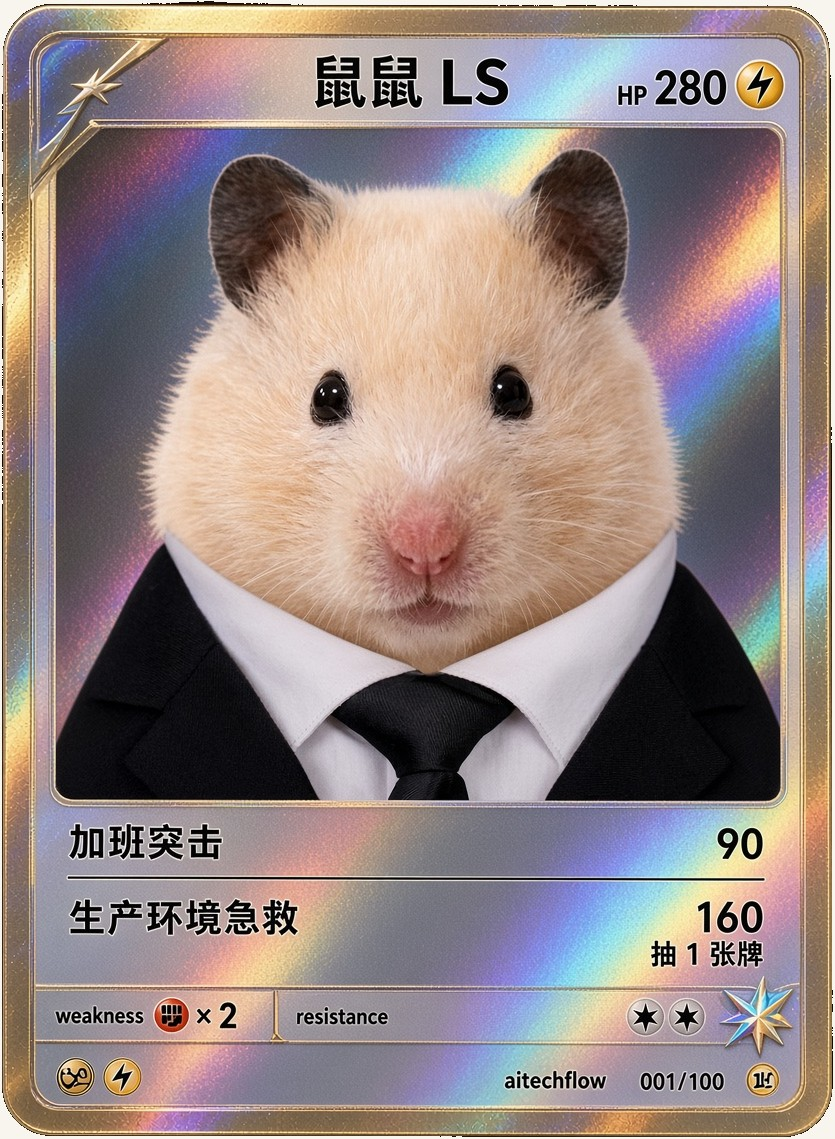
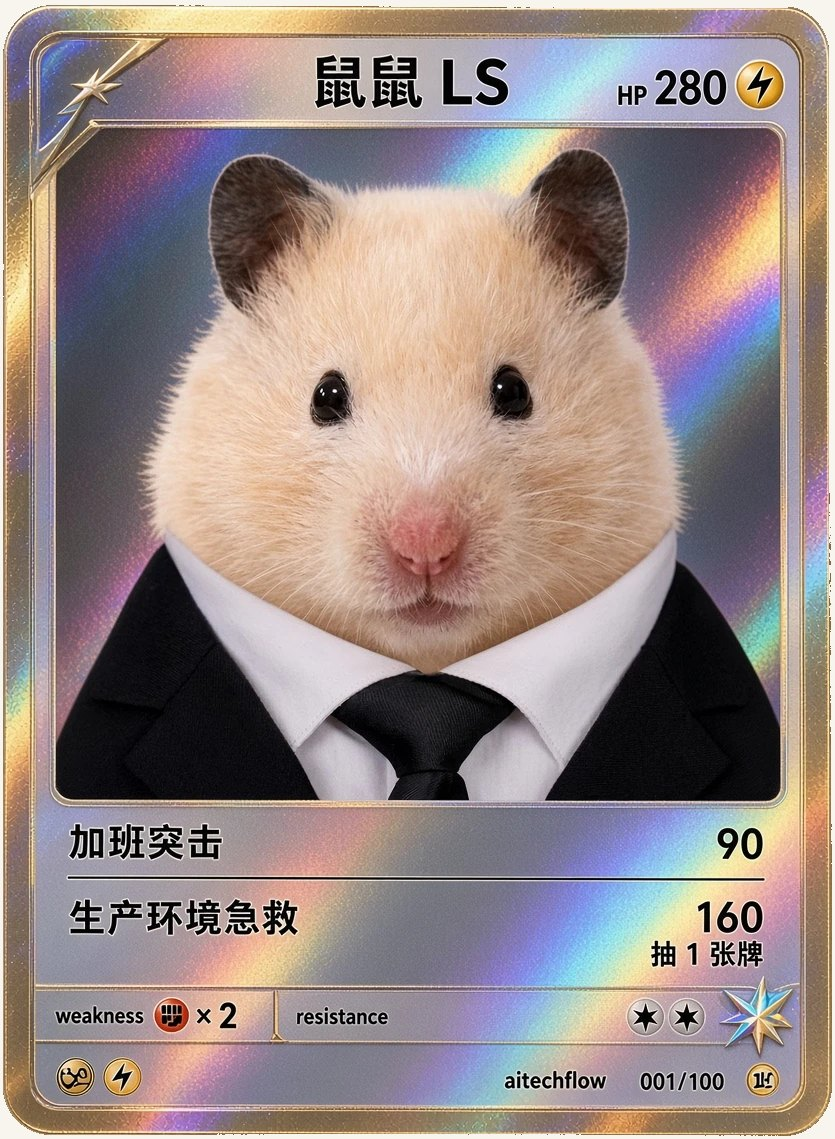
Remove the black matte around the flash card.
The outer edge is transparent up to the gold frame, and the card shape now comes from the webp alpha with a drop-shadow instead of a clipped box-shadow.

diff --git a/source/h/h-card.css b/source/h/h-card.css
@@ -39,28 +39,33 @@
   transition:transform .3s cubic-bezier(.25,.8,.3,1);}
 .pcard-poke:active{transform:scale(.99);}
 
-/* 整卡成品图：轮廓即卡面本身，无外圈金框 / 无深色底 */
+/* 整卡成品图：轮廓只来自 webp 透明通道，不套圆角裁切，也不垫阴影底板 */
 .pcard-poke.full-art{
   display:block;padding:0;background:transparent;
-  /* 贴近 card-front 比例 ≈ 835/1139 */
-  aspect-ratio:835/1139;border-radius:18px;overflow:hidden;
-  /* 轻阴影托起卡片，不画黑边 */
-  box-shadow:0 10px 28px rgba(40,28,10,.18),0 2px 6px rgba(40,28,10,.08);
+  aspect-ratio:835/1139;border-radius:0;overflow:visible;
+  box-shadow:none;
+  filter:drop-shadow(0 12px 22px rgba(40,28,10,.18));
 }
 .pcard-poke.full-art .pk-full{
   position:relative;z-index:0;display:block;
   width:100%;height:100%;
   object-fit:contain;object-position:center;
   background:transparent;pointer-events:none;
-  border:0;border-radius:18px;box-shadow:none;
+  border:0;border-radius:0;box-shadow:none;
 }
 /* full-art 不再套白板 chrome */
 .pcard-poke.full-art .pk-in{display:none;}
-/* 光效贴合圆角卡面，不溢到卡外成黑边 */
+/* 光效跟着卡面 alpha，不在透明角上铺一块底板 */
 .pcard-poke.full-art .holo,
 .pcard-poke.full-art .glit,
 .pcard-poke.full-art .gloss{
-  border-radius:18px;inset:0;
+  border-radius:0;inset:0;
+  -webkit-mask-image:url("/img/card-front.webp");
+  mask-image:url("/img/card-front.webp");
+  -webkit-mask-size:100% 100%;
+  mask-size:100% 100%;
+  -webkit-mask-repeat:no-repeat;
+  mask-repeat:no-repeat;
 }
 
 /* 虹彩层：随 --ang 旋转 —— 鼠标移动时色带流动 */
